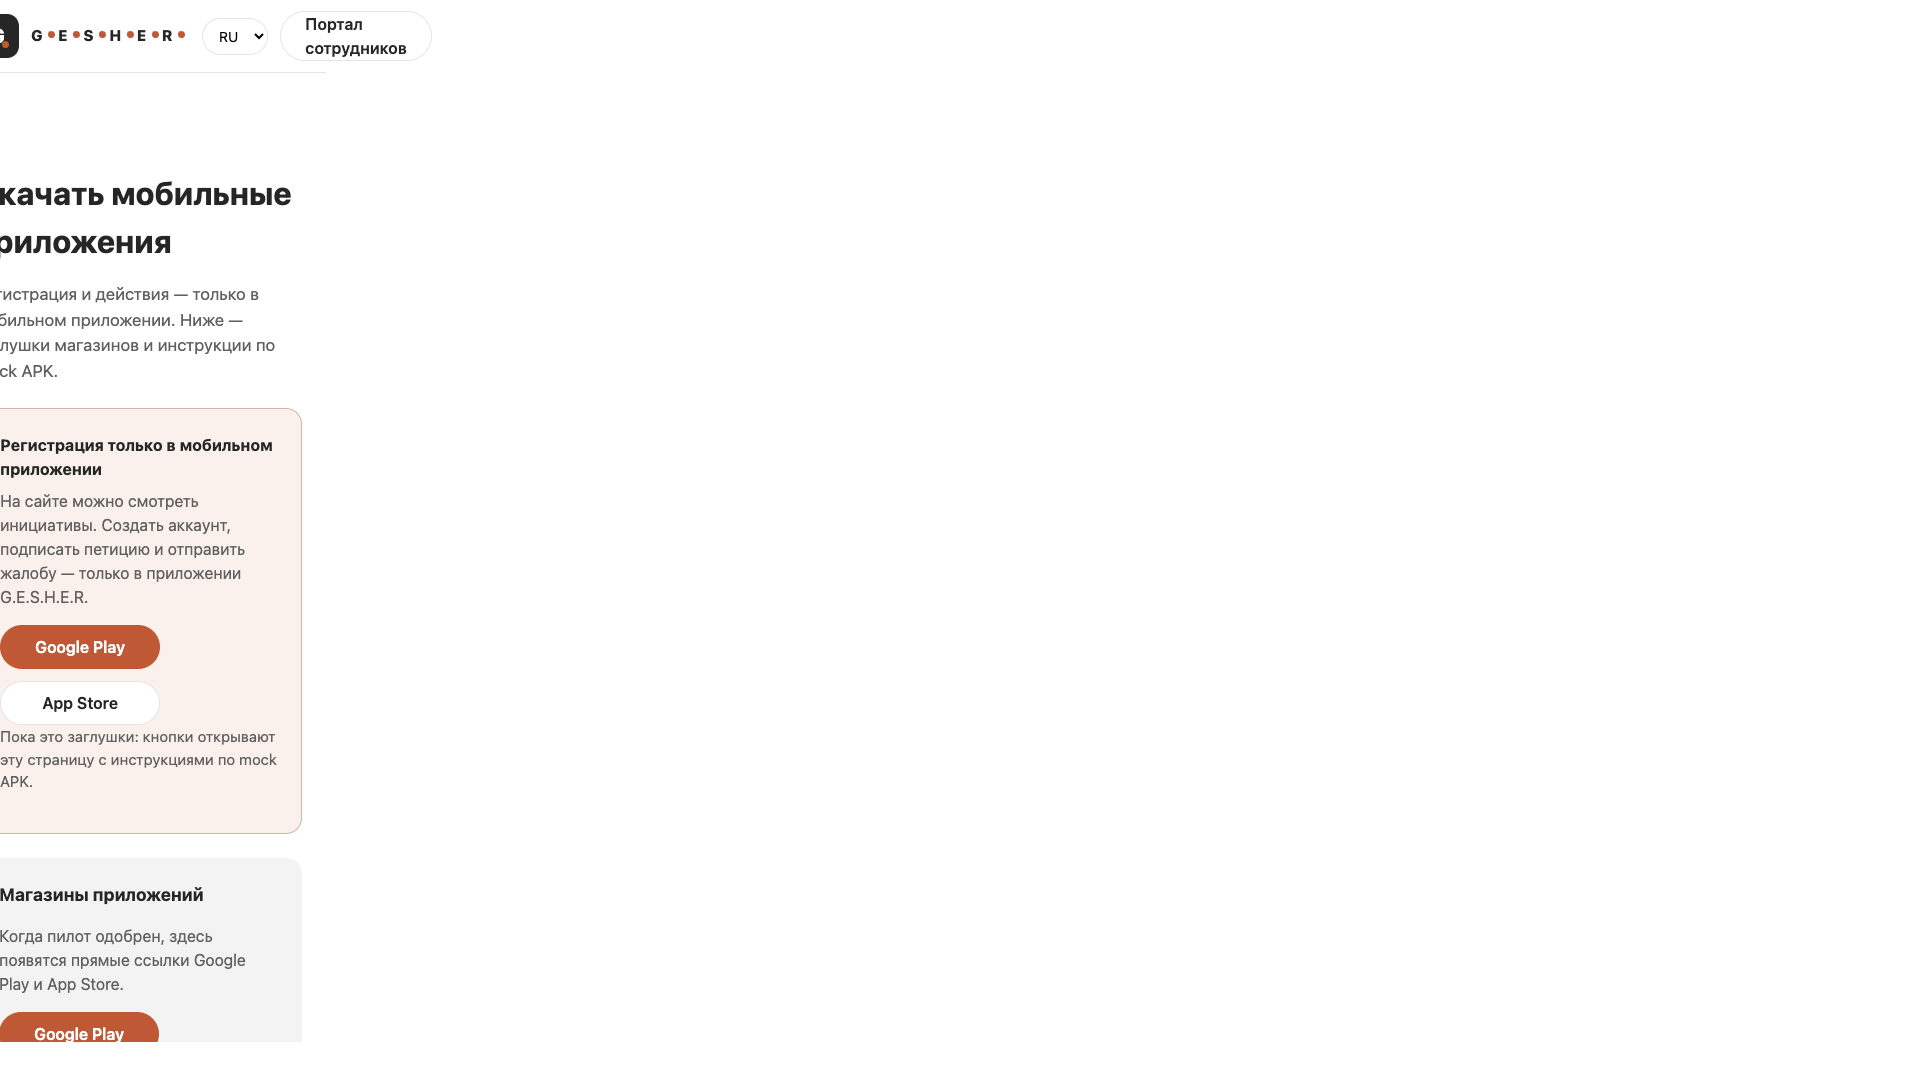
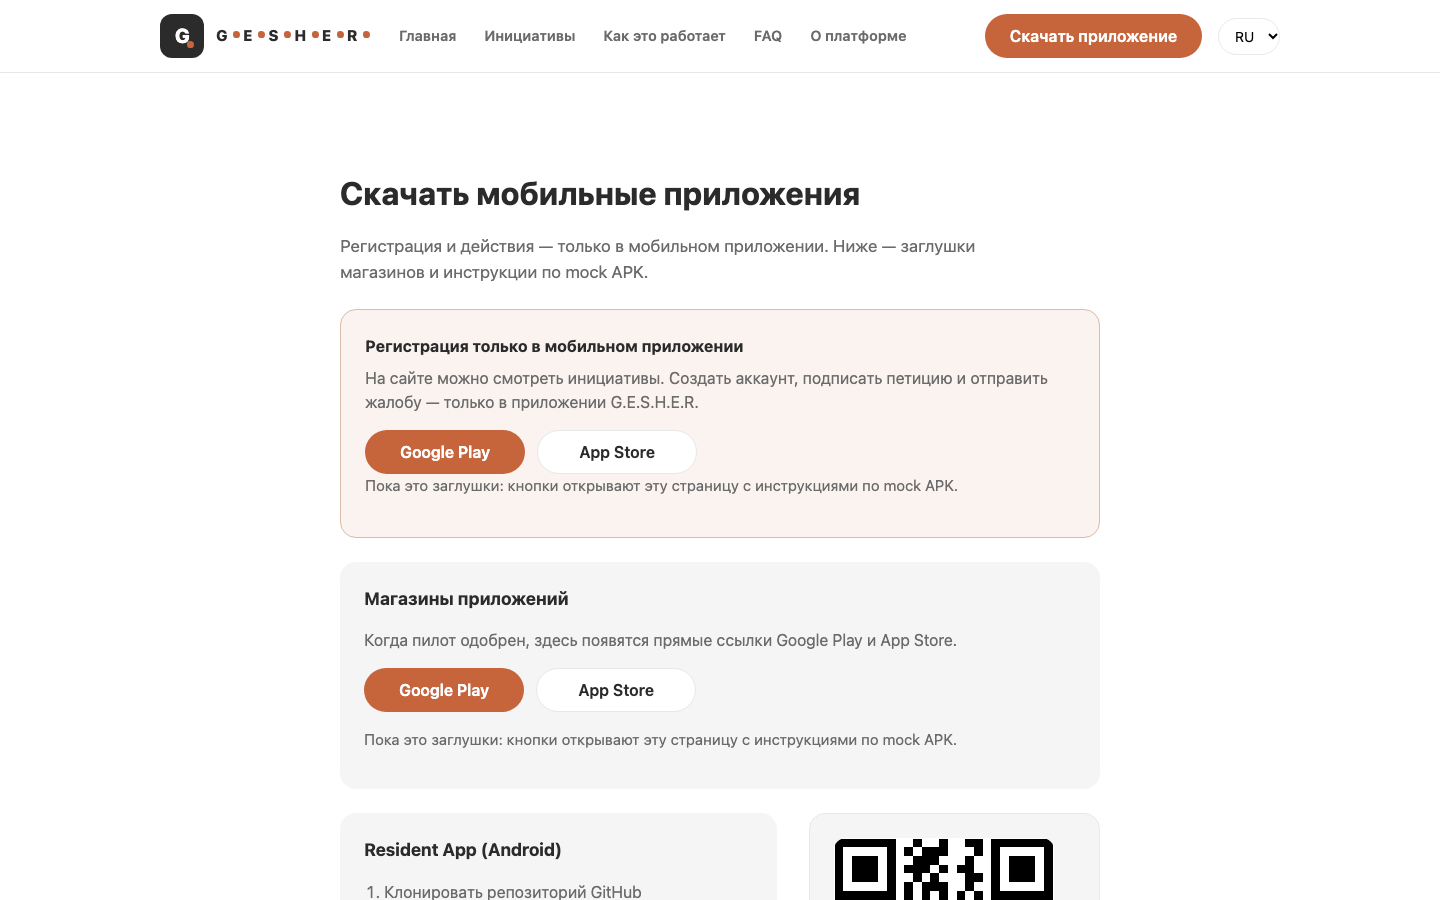
Update demo rehearsal script and re-shoot public screenshots after header fix.
- Rehearsal: new header, staff portal reached via footer or direct URL, inspector
  languages in the closing part.
- Screenshots: one standard (1440x900, first screen), six files incl. Hebrew home.

diff --git a/docs/demo/municipality-rehearsal.md b/docs/demo/municipality-rehearsal.md
@@ -34,9 +34,9 @@ Aligned with **mock-v0.2.0**, seed **1.6.2**, Admin **W1.5**, Resident **R7**.
 1. Open **public site** → hero + platform stats.
 2. **Инициативы** → `p1` (park lighting) and `p3` (promenade) with cover previews.
 3. Open `p3` → signature progress + **official municipality response** (OG meta if sharing link).
-4. Mention **About**, **Contact**, **Download APK** in footer — citizen site is shareable externally.
+4. Point to the header: five sections + the **Скачать приложение** button; **About**, **Contact**, **Privacy** live in the footer — citizen site is shareable externally. On a phone the sections are behind **☰**, the language switch stays visible.
 5. On an initiative detail page: show **Share** (Email / WhatsApp / Telegram) and **QR**; note **registration only in the mobile app** and store stub buttons.
-5. Signing and complaints happen in the **mobile app** (mock beta).
+6. Signing and complaints happen in the **mobile app** (mock beta).
 
 ### 2:00 — Resident journey (3 min)
 
@@ -49,7 +49,7 @@ Aligned with **mock-v0.2.0**, seed **1.6.2**, Admin **W1.5**, Resident **R7**.
 
 ### 5:00 — Staff operations (4 min)
 
-1. Staff portal → login as **moderator**.
+1. Staff portal — open the direct URL `…/staff/` (keep it in a browser tab) or go via the public site footer **Для мэрии → Портал сотрудников**; it is no longer in the site header. Login as **moderator**.
 2. Dashboard **Очереди (mock KPI)** — live counts from current mock store.
 3. **Petitions** list — keyboard `j` / `k`, `Enter` to open row (optional wow moment).
 4. Open `p2` → publish or request changes (OTP `123456`).
@@ -76,7 +76,7 @@ Aligned with **mock-v0.2.0**, seed **1.6.2**, Admin **W1.5**, Resident **R7**.
 
 ### 14:00 — Close (1 min)
 
-- Multilingual: RU / EN / HE / AR on web and mobile.
+- Multilingual: RU / EN / HE / AR on web and both mobile apps; Hebrew and Arabic run right-to-left. Quick proof: switch the inspector app language from the 🌐 button on its home screen.
 - **mock-v0.2.0** complete for UX pilot — backend when municipality approves scope.
 - Q&A.
 

diff --git a/docs/demo/screenshots/README.md b/docs/demo/screenshots/README.md
@@ -9,7 +9,7 @@ Capture checklist for municipality decks, README, and user guides.
 |----------|----------------|
 | Android emulator | `flutter run --target lib/main_mock.dart`, then device screenshot |
 | Android device | Power + Volume down |
-| Public web | Browser DevTools → device toolbar (375×812) |
+| Public web | Desktop viewport **1440×900**, first screen (not full page), so the one-row header is visible. Mobile-specific shots: 390×844 with `-mobile` in the name |
 | Staff portal | Desktop 1280×800, login as `moderator@gesher.mock` |
 
 Store files under `docs/demo/screenshots/<client>/` using the naming below.  
@@ -22,6 +22,7 @@ Prefer **PNG**, light theme, locale **RU** or **EN** unless the guide specifies 
 | File | Screen | Notes |
 |------|--------|-------|
 | `public-home-ru.png` | `index.html` | Hero, stats from seed, terracotta brand |
+| `public-home-he.png` | `index.html`, locale HE | Right-to-left layout, brand reads G.E.S.H.E.R., primary button first (on the right) |
 | `public-initiatives-ru.png` | `initiatives.html` | Cards `p1`, `p3` with cover previews |
 | `public-initiative-detail-p3.png` | `initiative.html?id=p3` | Signature bar + municipality response |
 | `public-about-en.png` | `about.html` | Mission + mock beta disclaimer |
@@ -116,7 +117,7 @@ Still useful to capture: _(none for resident — checklist complete)._
 
 ### Public / Staff / Inspector
 
-**Public captured:** `public-home-ru.png`, `public-initiatives-ru.png`, `public-initiative-detail-p3.png`, `public-about-en.png`, `public-download-ru.png`.
+**Public captured (re-shot 2026-11-18 at 1440×900 after the stage 1 header fix):** `public-home-ru.png`, `public-home-he.png`, `public-initiatives-ru.png`, `public-initiative-detail-p3.png`, `public-about-en.png`, `public-download-ru.png`.
 
 Staff / Inspector folders still empty. Before the next municipality meeting, run through `docs/demo/live-demo-checklist.md`.
 
